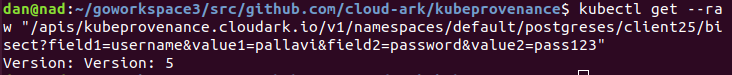
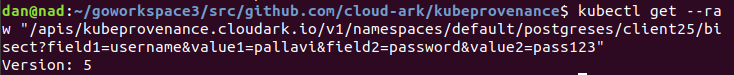
fixed version output. still need to add timestamp. merged the two readme.md, and added screenshots

diff --git a/README.md b/README.md
@@ -1,13 +1,19 @@
 # kubeprovenance
 
-A Kubernetes Aggregated API Server to find out Provenance information for different Kuberentes Custom Resources.
+A Kubernetes Aggregated API Server to find out Provenance/Lineage information for Kuberentes Custom Resources.
 
 ## What is it?
 
-kubeprovenance is a tool that helps you find Provenance information about different Kubernetes custom resources
-in your cluster. <br/>
-The information obtained from kubeprovenance can be used to determine how your cluster <br/>
-has evolved over time (its provenance/lineage). <br/>
+Kubernetes custom resources extend base API to manage third-party platform elements declaratively.
+It is important to track chronology of declarative operations performed on custom resources to understand
+how these operations affect underlying platform elements - e.g. for an instance of Postgres custom resource we may want to know:
+how many db users were created in a month, when was password changed for a db user, etc.
+For this, a generic approach is needed to maintain provenance information of custom resources.
+
+kubeprovenance is a tool that helps you find Provenance information about different Kubernetes custom resources in your cluster.
+
+Kubeprovenance is a Kubernetes aggregated API server. It uses Kubernetes audit logs for building custom resource provenance.
+Provenance query operators like history, diff, bisect are defined for custom resource instance tracking. Provenance information is accessible via kubectl.
 
 ## How does it work?
 
@@ -16,8 +22,16 @@ kubeprovenance uses Kubernetes Auditing to build the provenance information.
 In building this API server we tried several approaches. You can read about our experience  
 [here](https://medium.com/@cloudark/our-journey-in-building-a-kubernetes-aggregated-api-server-29a4f9c1de22).
 
+## Status
+
+Work in Progress.
+
+Note that currently kubeprovenance uses kube-apiserver-audit.log file included in artifacts/simple-image folder
+to build provenance information. So when you try out kubeprovenance you will get provenance information that is build from this file.
+We are working on changing kubeprovenance's information source from static audit log file to live audit logs that are continuously collected in the cluster.
+
 ## Try it Out:
-**Steps to Run Kubernetes Local Cluster on a GCE or AWS instance (or any node), configure auditing and running/testing Kubeprovenance aggregated api server** <br/>
+Steps to Run Kubernetes Local Cluster on a GCE or AWS instance (or any node), configure auditing and running/testing Kubeprovenance aggregated api server
 
 **1. Setting up environment. reference: https://dzone.com/articles/easy-step-by-step-local-kubernetes-source-code-cha** <br/>
 ssh to your VM <br/>
@@ -141,28 +155,30 @@ kubectl.sh get --raw "/apis/kubeprovenance.cloudark.io/v1/namespaces/default/pos
 kubectl.sh get --raw "/apis/kubeprovenance.cloudark.io/v1/namespaces/default/postgreses/client25/spechistory"
 ```
 
-3) Get diff of Postgres custom resource instance between version 1 and version 2
+3) Get diff of Postgres custom resource instance between version 1 and version 5
 
 ```
-kubectl.sh get --raw "/apis/kubeprovenance.cloudark.io/v1/namespaces/default/postgreses/client25/diff?start=1&end=2"
+kubectl.sh get --raw "/apis/kubeprovenance.cloudark.io/v1/namespaces/default/postgreses/client25/diff?start=1&end=5"
 ```
 
-4) Get diff of the field databases for a Postgres custom resource instance between version 1 and version 2
+4) Get diff of the field databases for a Postgres custom resource instance between version 1 and version 5
 
 ```
 kubectl.sh get --raw "/apis/kubeprovenance.cloudark.io/v1/namespaces/default/postgreses/client25/diff?start=1&end=2&field=databases"
 ```
 
-5) Find out in which version the user 'pallavi' was given password 'pass123'
+5) Get diff of the field username for a Postgres custom resource instance between version 1 and version 3
+
+```
+kubectl.sh get --raw "/apis/kubeprovenance.cloudark.io/v1/namespaces/default/postgreses/client25/diff?start=1&end=3&field=username"
+```
+
+6) Find out in which version the user 'pallavi' was given password 'pass123'
 
 ```
 kubectl.sh get --raw "/apis/kubeprovenance.cloudark.io/v1/namespaces/default/postgreses/client25/bisect?field1=username&value1=pallavi&field2=password&value2=pass123"
 ```
-![alt text](https://github.com/cloud-ark/kubeprovenance/raw/master/docs/spechistory.png)
-![alt text](https://github.com/cloud-ark/kubeprovenance/raw/master/docs/getfulldiff.png)
-![alt text](https://github.com/cloud-ark/kubeprovenance/raw/master/docs/getfielddiff.png)
-![alt text](https://github.com/cloud-ark/kubeprovenance/raw/master/docs/versions.png)
-![alt text](https://github.com/cloud-ark/kubeprovenance/raw/master/docs/bisect.png)
+
 
 ## Try it on Minikube
 
@@ -179,11 +195,14 @@ Scripts are provided to help with building the API server container image and de
 
 Once the kubeprovenance API server is running, you can find provenance information by using the following commands:
 
+
 1) Get list of version for a Postgres custom resource instance (client25)
 
 ```
 kubectl get --raw "/apis/kubeprovenance.cloudark.io/v1/namespaces/default/postgreses/client25/versions"
 ```
+
+![alt text](https://github.com/cloud-ark/kubeprovenance/raw/master/docs/versions.png)
 
 2) Get Spec history for Postgres custom resource instance
 
@@ -191,19 +210,36 @@ kubectl get --raw "/apis/kubeprovenance.cloudark.io/v1/namespaces/default/postgr
 kubectl get --raw "/apis/kubeprovenance.cloudark.io/v1/namespaces/default/postgreses/client25/spechistory"
 ```
 
-3) Get diff of Postgres custom resource instance between version 1 and version 2
+![alt text](https://github.com/cloud-ark/kubeprovenance/raw/master/docs/spechistory.png)
+
+
+3) Get diff of Postgres custom resource instance between version 1 and version 5
 
 ```
-kubectl get --raw "/apis/kubeprovenance.cloudark.io/v1/namespaces/default/postgreses/client25/diff?start=1&end=2"
+kubectl get --raw "/apis/kubeprovenance.cloudark.io/v1/namespaces/default/postgreses/client25/diff?start=1&end=5"
 ```
 
-4) Get diff of the field databases for a Postgres custom resource instance between version 1 and version 2
+![alt text](https://github.com/cloud-ark/kubeprovenance/raw/master/docs/getfulldiff.png)
+
+
+4) Get diff of the field databases for a Postgres custom resource instance between version 1 and version 5
 
 ```
 kubectl get --raw "/apis/kubeprovenance.cloudark.io/v1/namespaces/default/postgreses/client25/diff?start=1&end=2&field=databases"
 ```
+![alt text](https://github.com/cloud-ark/kubeprovenance/raw/master/docs/getfielddiff.png)
 
-5) Find out in which version the user 'pallavi' was given password 'pass123'
+
+5) Get diff of the field username for a Postgres custom resource instance between version 1 and version 3
+
+```
+kubectl get --raw "/apis/kubeprovenance.cloudark.io/v1/namespaces/default/postgreses/client25/diff?start=1&end=3&field=username"
+```
+
+![alt text](https://github.com/cloud-ark/kubeprovenance/raw/master/docs/usersfielddiff.png)
+
+
+6) Find out in which version the user 'pallavi' was given password 'pass123'
 
 ```
 kubectl get --raw "/apis/kubeprovenance.cloudark.io/v1/namespaces/default/postgreses/client25/bisect?field1=username&value1=pallavi&field2=password&value2=pass123"
